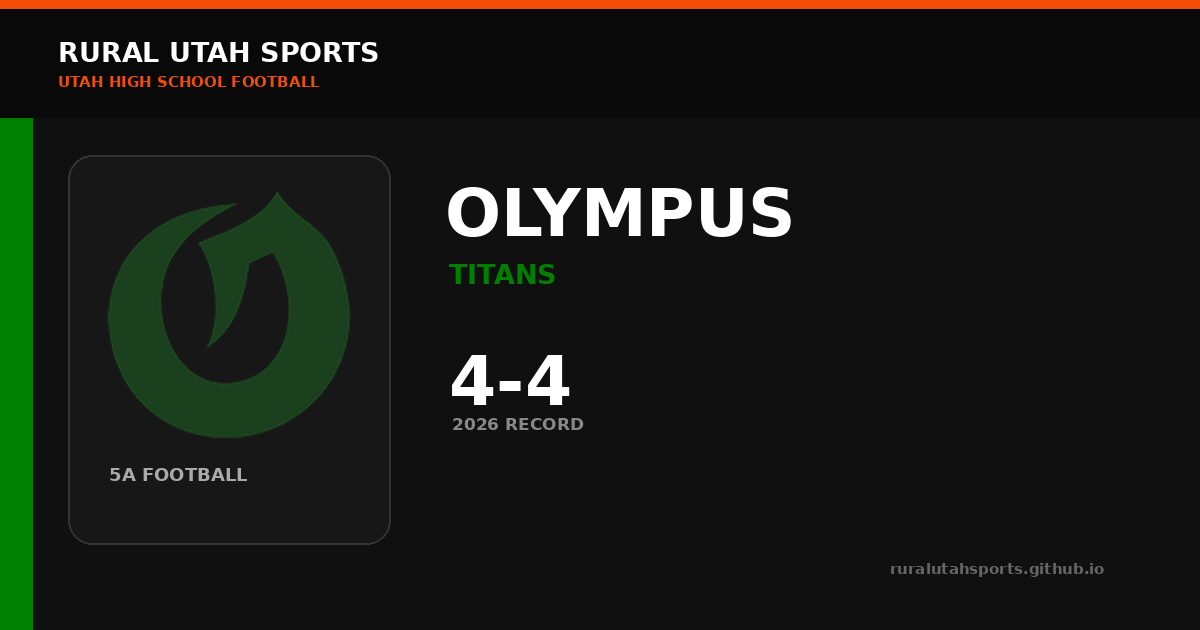
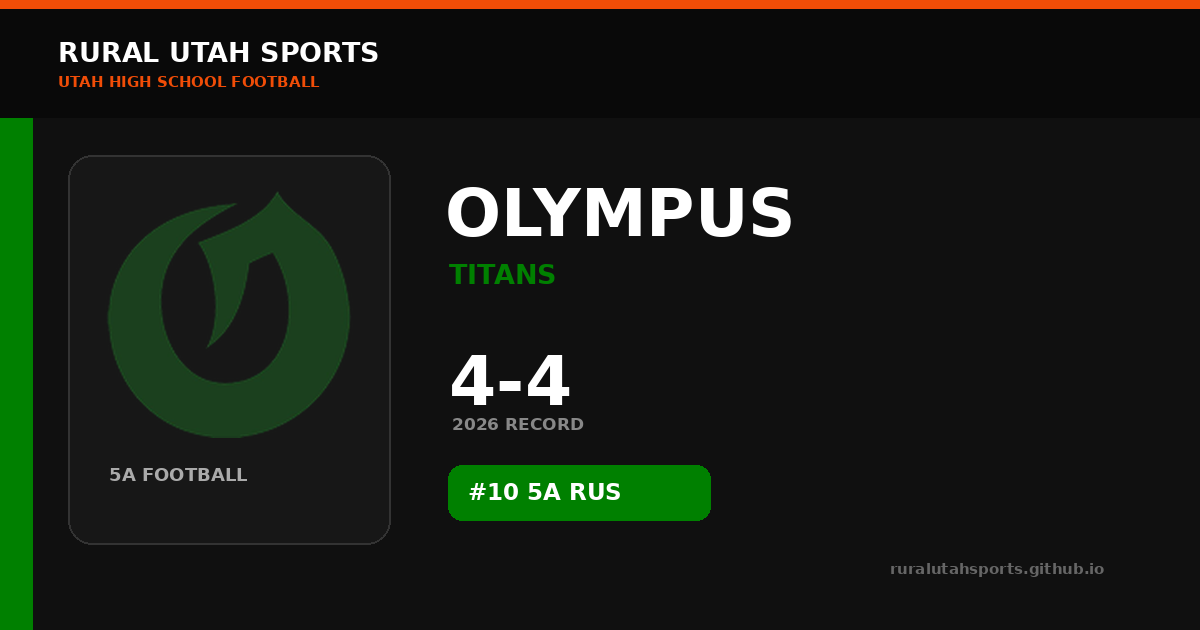
Auto-build social share previews

Changed region(s): [[0.37, 0.7238, 0.6167, 0.8444]]

diff --git a/share/team/pleasant-grove/index.html b/share/team/pleasant-grove/index.html
@@ -1,5 +1,5 @@
 <!doctype html><html lang="en"><head><meta charset="utf-8"><meta name="viewport" content="width=device-width,initial-scale=1">
-<title>Pleasant Grove Vikings Football | Rural Utah Sports</title><meta name="description" content="2026 5A football • 4-4 • #8 5A RUS. Team history, games, rankings, ELO and stats."><meta name="robots" content="noindex,follow"><link rel="canonical" href="https://ruralutahsports.github.io/rural-utah-sports/team.html?team=PLEASANT%20GROVE">
-<meta property="og:type" content="website"><meta property="og:site_name" content="Rural Utah Sports"><meta property="og:title" content="Pleasant Grove Vikings Football | Rural Utah Sports"><meta property="og:description" content="2026 5A football • 4-4 • #8 5A RUS. Team history, games, rankings, ELO and stats."><meta property="og:url" content="https://ruralutahsports.github.io/rural-utah-sports/share/team/pleasant-grove/"><meta property="og:image" content="https://ruralutahsports.github.io/rural-utah-sports/share-images/teams/pleasant-grove.png"><meta property="og:image:width" content="1200"><meta property="og:image:height" content="630">
-<meta name="twitter:card" content="summary_large_image"><meta name="twitter:title" content="Pleasant Grove Vikings Football | Rural Utah Sports"><meta name="twitter:description" content="2026 5A football • 4-4 • #8 5A RUS. Team history, games, rankings, ELO and stats."><meta name="twitter:image" content="https://ruralutahsports.github.io/rural-utah-sports/share-images/teams/pleasant-grove.png"><meta http-equiv="refresh" content="0;url=https://ruralutahsports.github.io/rural-utah-sports/team.html?team=PLEASANT%20GROVE">
+<title>Pleasant Grove Vikings Football | Rural Utah Sports</title><meta name="description" content="2026 5A football • 4-4. Team history, games, rankings, ELO and stats."><meta name="robots" content="noindex,follow"><link rel="canonical" href="https://ruralutahsports.github.io/rural-utah-sports/team.html?team=PLEASANT%20GROVE">
+<meta property="og:type" content="website"><meta property="og:site_name" content="Rural Utah Sports"><meta property="og:title" content="Pleasant Grove Vikings Football | Rural Utah Sports"><meta property="og:description" content="2026 5A football • 4-4. Team history, games, rankings, ELO and stats."><meta property="og:url" content="https://ruralutahsports.github.io/rural-utah-sports/share/team/pleasant-grove/"><meta property="og:image" content="https://ruralutahsports.github.io/rural-utah-sports/share-images/teams/pleasant-grove.png"><meta property="og:image:width" content="1200"><meta property="og:image:height" content="630">
+<meta name="twitter:card" content="summary_large_image"><meta name="twitter:title" content="Pleasant Grove Vikings Football | Rural Utah Sports"><meta name="twitter:description" content="2026 5A football • 4-4. Team history, games, rankings, ELO and stats."><meta name="twitter:image" content="https://ruralutahsports.github.io/rural-utah-sports/share-images/teams/pleasant-grove.png"><meta http-equiv="refresh" content="0;url=https://ruralutahsports.github.io/rural-utah-sports/team.html?team=PLEASANT%20GROVE">
 <style>body{margin:0;background:#111;color:#fff;font:16px Arial,sans-serif;display:grid;place-items:center;min-height:100vh}a{color:#F14D07;font-weight:800}</style></head><body><p>Opening <a href="https://ruralutahsports.github.io/rural-utah-sports/team.html?team=PLEASANT%20GROVE">Pleasant Grove Vikings Football | Rural Utah Sports</a>…</p><script>location.replace("https://ruralutahsports.github.io/rural-utah-sports/team.html?team=PLEASANT%20GROVE");</script></body></html>

diff --git a/share/team/springville/index.html b/share/team/springville/index.html
@@ -1,5 +1,5 @@
 <!doctype html><html lang="en"><head><meta charset="utf-8"><meta name="viewport" content="width=device-width,initial-scale=1">
-<title>Springville Red Devils Football | Rural Utah Sports</title><meta name="description" content="2026 5A football • 6-2 • #5 5A RUS. Team history, games, rankings, ELO and stats."><meta name="robots" content="noindex,follow"><link rel="canonical" href="https://ruralutahsports.github.io/rural-utah-sports/team.html?team=SPRINGVILLE">
-<meta property="og:type" content="website"><meta property="og:site_name" content="Rural Utah Sports"><meta property="og:title" content="Springville Red Devils Football | Rural Utah Sports"><meta property="og:description" content="2026 5A football • 6-2 • #5 5A RUS. Team history, games, rankings, ELO and stats."><meta property="og:url" content="https://ruralutahsports.github.io/rural-utah-sports/share/team/springville/"><meta property="og:image" content="https://ruralutahsports.github.io/rural-utah-sports/share-images/teams/springville.png"><meta property="og:image:width" content="1200"><meta property="og:image:height" content="630">
-<meta name="twitter:card" content="summary_large_image"><meta name="twitter:title" content="Springville Red Devils Football | Rural Utah Sports"><meta name="twitter:description" content="2026 5A football • 6-2 • #5 5A RUS. Team history, games, rankings, ELO and stats."><meta name="twitter:image" content="https://ruralutahsports.github.io/rural-utah-sports/share-images/teams/springville.png"><meta http-equiv="refresh" content="0;url=https://ruralutahsports.github.io/rural-utah-sports/team.html?team=SPRINGVILLE">
+<title>Springville Red Devils Football | Rural Utah Sports</title><meta name="description" content="2026 5A football • 6-2 • #4 5A RUS. Team history, games, rankings, ELO and stats."><meta name="robots" content="noindex,follow"><link rel="canonical" href="https://ruralutahsports.github.io/rural-utah-sports/team.html?team=SPRINGVILLE">
+<meta property="og:type" content="website"><meta property="og:site_name" content="Rural Utah Sports"><meta property="og:title" content="Springville Red Devils Football | Rural Utah Sports"><meta property="og:description" content="2026 5A football • 6-2 • #4 5A RUS. Team history, games, rankings, ELO and stats."><meta property="og:url" content="https://ruralutahsports.github.io/rural-utah-sports/share/team/springville/"><meta property="og:image" content="https://ruralutahsports.github.io/rural-utah-sports/share-images/teams/springville.png"><meta property="og:image:width" content="1200"><meta property="og:image:height" content="630">
+<meta name="twitter:card" content="summary_large_image"><meta name="twitter:title" content="Springville Red Devils Football | Rural Utah Sports"><meta name="twitter:description" content="2026 5A football • 6-2 • #4 5A RUS. Team history, games, rankings, ELO and stats."><meta name="twitter:image" content="https://ruralutahsports.github.io/rural-utah-sports/share-images/teams/springville.png"><meta http-equiv="refresh" content="0;url=https://ruralutahsports.github.io/rural-utah-sports/team.html?team=SPRINGVILLE">
 <style>body{margin:0;background:#111;color:#fff;font:16px Arial,sans-serif;display:grid;place-items:center;min-height:100vh}a{color:#F14D07;font-weight:800}</style></head><body><p>Opening <a href="https://ruralutahsports.github.io/rural-utah-sports/team.html?team=SPRINGVILLE">Springville Red Devils Football | Rural Utah Sports</a>…</p><script>location.replace("https://ruralutahsports.github.io/rural-utah-sports/team.html?team=SPRINGVILLE");</script></body></html>

diff --git a/share/team/spanish-fork/index.html b/share/team/spanish-fork/index.html
@@ -1,5 +1,5 @@
 <!doctype html><html lang="en"><head><meta charset="utf-8"><meta name="viewport" content="width=device-width,initial-scale=1">
-<title>Spanish Fork Dons Football | Rural Utah Sports</title><meta name="description" content="2026 5A football • 6-2 • #9 5A RUS. Team history, games, rankings, ELO and stats."><meta name="robots" content="noindex,follow"><link rel="canonical" href="https://ruralutahsports.github.io/rural-utah-sports/team.html?team=SPANISH%20FORK">
-<meta property="og:type" content="website"><meta property="og:site_name" content="Rural Utah Sports"><meta property="og:title" content="Spanish Fork Dons Football | Rural Utah Sports"><meta property="og:description" content="2026 5A football • 6-2 • #9 5A RUS. Team history, games, rankings, ELO and stats."><meta property="og:url" content="https://ruralutahsports.github.io/rural-utah-sports/share/team/spanish-fork/"><meta property="og:image" content="https://ruralutahsports.github.io/rural-utah-sports/share-images/teams/spanish-fork.png"><meta property="og:image:width" content="1200"><meta property="og:image:height" content="630">
-<meta name="twitter:card" content="summary_large_image"><meta name="twitter:title" content="Spanish Fork Dons Football | Rural Utah Sports"><meta name="twitter:description" content="2026 5A football • 6-2 • #9 5A RUS. Team history, games, rankings, ELO and stats."><meta name="twitter:image" content="https://ruralutahsports.github.io/rural-utah-sports/share-images/teams/spanish-fork.png"><meta http-equiv="refresh" content="0;url=https://ruralutahsports.github.io/rural-utah-sports/team.html?team=SPANISH%20FORK">
+<title>Spanish Fork Dons Football | Rural Utah Sports</title><meta name="description" content="2026 5A football • 6-2 • #7 5A RUS. Team history, games, rankings, ELO and stats."><meta name="robots" content="noindex,follow"><link rel="canonical" href="https://ruralutahsports.github.io/rural-utah-sports/team.html?team=SPANISH%20FORK">
+<meta property="og:type" content="website"><meta property="og:site_name" content="Rural Utah Sports"><meta property="og:title" content="Spanish Fork Dons Football | Rural Utah Sports"><meta property="og:description" content="2026 5A football • 6-2 • #7 5A RUS. Team history, games, rankings, ELO and stats."><meta property="og:url" content="https://ruralutahsports.github.io/rural-utah-sports/share/team/spanish-fork/"><meta property="og:image" content="https://ruralutahsports.github.io/rural-utah-sports/share-images/teams/spanish-fork.png"><meta property="og:image:width" content="1200"><meta property="og:image:height" content="630">
+<meta name="twitter:card" content="summary_large_image"><meta name="twitter:title" content="Spanish Fork Dons Football | Rural Utah Sports"><meta name="twitter:description" content="2026 5A football • 6-2 • #7 5A RUS. Team history, games, rankings, ELO and stats."><meta name="twitter:image" content="https://ruralutahsports.github.io/rural-utah-sports/share-images/teams/spanish-fork.png"><meta http-equiv="refresh" content="0;url=https://ruralutahsports.github.io/rural-utah-sports/team.html?team=SPANISH%20FORK">
 <style>body{margin:0;background:#111;color:#fff;font:16px Arial,sans-serif;display:grid;place-items:center;min-height:100vh}a{color:#F14D07;font-weight:800}</style></head><body><p>Opening <a href="https://ruralutahsports.github.io/rural-utah-sports/team.html?team=SPANISH%20FORK">Spanish Fork Dons Football | Rural Utah Sports</a>…</p><script>location.replace("https://ruralutahsports.github.io/rural-utah-sports/team.html?team=SPANISH%20FORK");</script></body></html>

diff --git a/share/team/timpview/index.html b/share/team/timpview/index.html
@@ -1,5 +1,5 @@
 <!doctype html><html lang="en"><head><meta charset="utf-8"><meta name="viewport" content="width=device-width,initial-scale=1">
-<title>Timpview Thunderbirds Football | Rural Utah Sports</title><meta name="description" content="2026 5A football • 3-5 • #4 5A RUS. Team history, games, rankings, ELO and stats."><meta name="robots" content="noindex,follow"><link rel="canonical" href="https://ruralutahsports.github.io/rural-utah-sports/team.html?team=TIMPVIEW">
-<meta property="og:type" content="website"><meta property="og:site_name" content="Rural Utah Sports"><meta property="og:title" content="Timpview Thunderbirds Football | Rural Utah Sports"><meta property="og:description" content="2026 5A football • 3-5 • #4 5A RUS. Team history, games, rankings, ELO and stats."><meta property="og:url" content="https://ruralutahsports.github.io/rural-utah-sports/share/team/timpview/"><meta property="og:image" content="https://ruralutahsports.github.io/rural-utah-sports/share-images/teams/timpview.png"><meta property="og:image:width" content="1200"><meta property="og:image:height" content="630">
-<meta name="twitter:card" content="summary_large_image"><meta name="twitter:title" content="Timpview Thunderbirds Football | Rural Utah Sports"><meta name="twitter:description" content="2026 5A football • 3-5 • #4 5A RUS. Team history, games, rankings, ELO and stats."><meta name="twitter:image" content="https://ruralutahsports.github.io/rural-utah-sports/share-images/teams/timpview.png"><meta http-equiv="refresh" content="0;url=https://ruralutahsports.github.io/rural-utah-sports/team.html?team=TIMPVIEW">
+<title>Timpview Thunderbirds Football | Rural Utah Sports</title><meta name="description" content="2026 5A football • 3-5 • #5 5A RUS. Team history, games, rankings, ELO and stats."><meta name="robots" content="noindex,follow"><link rel="canonical" href="https://ruralutahsports.github.io/rural-utah-sports/team.html?team=TIMPVIEW">
+<meta property="og:type" content="website"><meta property="og:site_name" content="Rural Utah Sports"><meta property="og:title" content="Timpview Thunderbirds Football | Rural Utah Sports"><meta property="og:description" content="2026 5A football • 3-5 • #5 5A RUS. Team history, games, rankings, ELO and stats."><meta property="og:url" content="https://ruralutahsports.github.io/rural-utah-sports/share/team/timpview/"><meta property="og:image" content="https://ruralutahsports.github.io/rural-utah-sports/share-images/teams/timpview.png"><meta property="og:image:width" content="1200"><meta property="og:image:height" content="630">
+<meta name="twitter:card" content="summary_large_image"><meta name="twitter:title" content="Timpview Thunderbirds Football | Rural Utah Sports"><meta name="twitter:description" content="2026 5A football • 3-5 • #5 5A RUS. Team history, games, rankings, ELO and stats."><meta name="twitter:image" content="https://ruralutahsports.github.io/rural-utah-sports/share-images/teams/timpview.png"><meta http-equiv="refresh" content="0;url=https://ruralutahsports.github.io/rural-utah-sports/team.html?team=TIMPVIEW">
 <style>body{margin:0;background:#111;color:#fff;font:16px Arial,sans-serif;display:grid;place-items:center;min-height:100vh}a{color:#F14D07;font-weight:800}</style></head><body><p>Opening <a href="https://ruralutahsports.github.io/rural-utah-sports/team.html?team=TIMPVIEW">Timpview Thunderbirds Football | Rural Utah Sports</a>…</p><script>location.replace("https://ruralutahsports.github.io/rural-utah-sports/team.html?team=TIMPVIEW");</script></body></html>

diff --git a/share/team/bountiful/index.html b/share/team/bountiful/index.html
@@ -1,5 +1,5 @@
 <!doctype html><html lang="en"><head><meta charset="utf-8"><meta name="viewport" content="width=device-width,initial-scale=1">
-<title>Bountiful Redhawks Football | Rural Utah Sports</title><meta name="description" content="2026 5A football • 5-2 • #10 5A RUS. Team history, games, rankings, ELO and stats."><meta name="robots" content="noindex,follow"><link rel="canonical" href="https://ruralutahsports.github.io/rural-utah-sports/team.html?team=BOUNTIFUL">
-<meta property="og:type" content="website"><meta property="og:site_name" content="Rural Utah Sports"><meta property="og:title" content="Bountiful Redhawks Football | Rural Utah Sports"><meta property="og:description" content="2026 5A football • 5-2 • #10 5A RUS. Team history, games, rankings, ELO and stats."><meta property="og:url" content="https://ruralutahsports.github.io/rural-utah-sports/share/team/bountiful/"><meta property="og:image" content="https://ruralutahsports.github.io/rural-utah-sports/share-images/teams/bountiful.png"><meta property="og:image:width" content="1200"><meta property="og:image:height" content="630">
-<meta name="twitter:card" content="summary_large_image"><meta name="twitter:title" content="Bountiful Redhawks Football | Rural Utah Sports"><meta name="twitter:description" content="2026 5A football • 5-2 • #10 5A RUS. Team history, games, rankings, ELO and stats."><meta name="twitter:image" content="https://ruralutahsports.github.io/rural-utah-sports/share-images/teams/bountiful.png"><meta http-equiv="refresh" content="0;url=https://ruralutahsports.github.io/rural-utah-sports/team.html?team=BOUNTIFUL">
+<title>Bountiful Redhawks Football | Rural Utah Sports</title><meta name="description" content="2026 5A football • 5-2 • #6 5A RUS. Team history, games, rankings, ELO and stats."><meta name="robots" content="noindex,follow"><link rel="canonical" href="https://ruralutahsports.github.io/rural-utah-sports/team.html?team=BOUNTIFUL">
+<meta property="og:type" content="website"><meta property="og:site_name" content="Rural Utah Sports"><meta property="og:title" content="Bountiful Redhawks Football | Rural Utah Sports"><meta property="og:description" content="2026 5A football • 5-2 • #6 5A RUS. Team history, games, rankings, ELO and stats."><meta property="og:url" content="https://ruralutahsports.github.io/rural-utah-sports/share/team/bountiful/"><meta property="og:image" content="https://ruralutahsports.github.io/rural-utah-sports/share-images/teams/bountiful.png"><meta property="og:image:width" content="1200"><meta property="og:image:height" content="630">
+<meta name="twitter:card" content="summary_large_image"><meta name="twitter:title" content="Bountiful Redhawks Football | Rural Utah Sports"><meta name="twitter:description" content="2026 5A football • 5-2 • #6 5A RUS. Team history, games, rankings, ELO and stats."><meta name="twitter:image" content="https://ruralutahsports.github.io/rural-utah-sports/share-images/teams/bountiful.png"><meta http-equiv="refresh" content="0;url=https://ruralutahsports.github.io/rural-utah-sports/team.html?team=BOUNTIFUL">
 <style>body{margin:0;background:#111;color:#fff;font:16px Arial,sans-serif;display:grid;place-items:center;min-height:100vh}a{color:#F14D07;font-weight:800}</style></head><body><p>Opening <a href="https://ruralutahsports.github.io/rural-utah-sports/team.html?team=BOUNTIFUL">Bountiful Redhawks Football | Rural Utah Sports</a>…</p><script>location.replace("https://ruralutahsports.github.io/rural-utah-sports/team.html?team=BOUNTIFUL");</script></body></html>

diff --git a/share/team/fremont/index.html b/share/team/fremont/index.html
@@ -1,5 +1,5 @@
 <!doctype html><html lang="en"><head><meta charset="utf-8"><meta name="viewport" content="width=device-width,initial-scale=1">
-<title>Fremont Silverwolves Football | Rural Utah Sports</title><meta name="description" content="2026 5A football • 5-3 • #6 5A RUS. Team history, games, rankings, ELO and stats."><meta name="robots" content="noindex,follow"><link rel="canonical" href="https://ruralutahsports.github.io/rural-utah-sports/team.html?team=FREMONT">
-<meta property="og:type" content="website"><meta property="og:site_name" content="Rural Utah Sports"><meta property="og:title" content="Fremont Silverwolves Football | Rural Utah Sports"><meta property="og:description" content="2026 5A football • 5-3 • #6 5A RUS. Team history, games, rankings, ELO and stats."><meta property="og:url" content="https://ruralutahsports.github.io/rural-utah-sports/share/team/fremont/"><meta property="og:image" content="https://ruralutahsports.github.io/rural-utah-sports/share-images/teams/fremont.png"><meta property="og:image:width" content="1200"><meta property="og:image:height" content="630">
-<meta name="twitter:card" content="summary_large_image"><meta name="twitter:title" content="Fremont Silverwolves Football | Rural Utah Sports"><meta name="twitter:description" content="2026 5A football • 5-3 • #6 5A RUS. Team history, games, rankings, ELO and stats."><meta name="twitter:image" content="https://ruralutahsports.github.io/rural-utah-sports/share-images/teams/fremont.png"><meta http-equiv="refresh" content="0;url=https://ruralutahsports.github.io/rural-utah-sports/team.html?team=FREMONT">
+<title>Fremont Silverwolves Football | Rural Utah Sports</title><meta name="description" content="2026 5A football • 5-3 • #8 5A RUS. Team history, games, rankings, ELO and stats."><meta name="robots" content="noindex,follow"><link rel="canonical" href="https://ruralutahsports.github.io/rural-utah-sports/team.html?team=FREMONT">
+<meta property="og:type" content="website"><meta property="og:site_name" content="Rural Utah Sports"><meta property="og:title" content="Fremont Silverwolves Football | Rural Utah Sports"><meta property="og:description" content="2026 5A football • 5-3 • #8 5A RUS. Team history, games, rankings, ELO and stats."><meta property="og:url" content="https://ruralutahsports.github.io/rural-utah-sports/share/team/fremont/"><meta property="og:image" content="https://ruralutahsports.github.io/rural-utah-sports/share-images/teams/fremont.png"><meta property="og:image:width" content="1200"><meta property="og:image:height" content="630">
+<meta name="twitter:card" content="summary_large_image"><meta name="twitter:title" content="Fremont Silverwolves Football | Rural Utah Sports"><meta name="twitter:description" content="2026 5A football • 5-3 • #8 5A RUS. Team history, games, rankings, ELO and stats."><meta name="twitter:image" content="https://ruralutahsports.github.io/rural-utah-sports/share-images/teams/fremont.png"><meta http-equiv="refresh" content="0;url=https://ruralutahsports.github.io/rural-utah-sports/team.html?team=FREMONT">
 <style>body{margin:0;background:#111;color:#fff;font:16px Arial,sans-serif;display:grid;place-items:center;min-height:100vh}a{color:#F14D07;font-weight:800}</style></head><body><p>Opening <a href="https://ruralutahsports.github.io/rural-utah-sports/team.html?team=FREMONT">Fremont Silverwolves Football | Rural Utah Sports</a>…</p><script>location.replace("https://ruralutahsports.github.io/rural-utah-sports/team.html?team=FREMONT");</script></body></html>

diff --git a/share/team/olympus/index.html b/share/team/olympus/index.html
@@ -1,5 +1,5 @@
 <!doctype html><html lang="en"><head><meta charset="utf-8"><meta name="viewport" content="width=device-width,initial-scale=1">
-<title>Olympus Titans Football | Rural Utah Sports</title><meta name="description" content="2026 5A football • 4-4. Team history, games, rankings, ELO and stats."><meta name="robots" content="noindex,follow"><link rel="canonical" href="https://ruralutahsports.github.io/rural-utah-sports/team.html?team=OLYMPUS">
-<meta property="og:type" content="website"><meta property="og:site_name" content="Rural Utah Sports"><meta property="og:title" content="Olympus Titans Football | Rural Utah Sports"><meta property="og:description" content="2026 5A football • 4-4. Team history, games, rankings, ELO and stats."><meta property="og:url" content="https://ruralutahsports.github.io/rural-utah-sports/share/team/olympus/"><meta property="og:image" content="https://ruralutahsports.github.io/rural-utah-sports/share-images/teams/olympus.png"><meta property="og:image:width" content="1200"><meta property="og:image:height" content="630">
-<meta name="twitter:card" content="summary_large_image"><meta name="twitter:title" content="Olympus Titans Football | Rural Utah Sports"><meta name="twitter:description" content="2026 5A football • 4-4. Team history, games, rankings, ELO and stats."><meta name="twitter:image" content="https://ruralutahsports.github.io/rural-utah-sports/share-images/teams/olympus.png"><meta http-equiv="refresh" content="0;url=https://ruralutahsports.github.io/rural-utah-sports/team.html?team=OLYMPUS">
+<title>Olympus Titans Football | Rural Utah Sports</title><meta name="description" content="2026 5A football • 4-4 • #10 5A RUS. Team history, games, rankings, ELO and stats."><meta name="robots" content="noindex,follow"><link rel="canonical" href="https://ruralutahsports.github.io/rural-utah-sports/team.html?team=OLYMPUS">
+<meta property="og:type" content="website"><meta property="og:site_name" content="Rural Utah Sports"><meta property="og:title" content="Olympus Titans Football | Rural Utah Sports"><meta property="og:description" content="2026 5A football • 4-4 • #10 5A RUS. Team history, games, rankings, ELO and stats."><meta property="og:url" content="https://ruralutahsports.github.io/rural-utah-sports/share/team/olympus/"><meta property="og:image" content="https://ruralutahsports.github.io/rural-utah-sports/share-images/teams/olympus.png"><meta property="og:image:width" content="1200"><meta property="og:image:height" content="630">
+<meta name="twitter:card" content="summary_large_image"><meta name="twitter:title" content="Olympus Titans Football | Rural Utah Sports"><meta name="twitter:description" content="2026 5A football • 4-4 • #10 5A RUS. Team history, games, rankings, ELO and stats."><meta name="twitter:image" content="https://ruralutahsports.github.io/rural-utah-sports/share-images/teams/olympus.png"><meta http-equiv="refresh" content="0;url=https://ruralutahsports.github.io/rural-utah-sports/team.html?team=OLYMPUS">
 <style>body{margin:0;background:#111;color:#fff;font:16px Arial,sans-serif;display:grid;place-items:center;min-height:100vh}a{color:#F14D07;font-weight:800}</style></head><body><p>Opening <a href="https://ruralutahsports.github.io/rural-utah-sports/team.html?team=OLYMPUS">Olympus Titans Football | Rural Utah Sports</a>…</p><script>location.replace("https://ruralutahsports.github.io/rural-utah-sports/team.html?team=OLYMPUS");</script></body></html>

diff --git a/share/team/alta/index.html b/share/team/alta/index.html
@@ -1,5 +1,5 @@
 <!doctype html><html lang="en"><head><meta charset="utf-8"><meta name="viewport" content="width=device-width,initial-scale=1">
-<title>Alta Hawks Football | Rural Utah Sports</title><meta name="description" content="2026 5A football • 5-3 • #7 5A RUS. Team history, games, rankings, ELO and stats."><meta name="robots" content="noindex,follow"><link rel="canonical" href="https://ruralutahsports.github.io/rural-utah-sports/team.html?team=ALTA">
-<meta property="og:type" content="website"><meta property="og:site_name" content="Rural Utah Sports"><meta property="og:title" content="Alta Hawks Football | Rural Utah Sports"><meta property="og:description" content="2026 5A football • 5-3 • #7 5A RUS. Team history, games, rankings, ELO and stats."><meta property="og:url" content="https://ruralutahsports.github.io/rural-utah-sports/share/team/alta/"><meta property="og:image" content="https://ruralutahsports.github.io/rural-utah-sports/share-images/teams/alta.png"><meta property="og:image:width" content="1200"><meta property="og:image:height" content="630">
-<meta name="twitter:card" content="summary_large_image"><meta name="twitter:title" content="Alta Hawks Football | Rural Utah Sports"><meta name="twitter:description" content="2026 5A football • 5-3 • #7 5A RUS. Team history, games, rankings, ELO and stats."><meta name="twitter:image" content="https://ruralutahsports.github.io/rural-utah-sports/share-images/teams/alta.png"><meta http-equiv="refresh" content="0;url=https://ruralutahsports.github.io/rural-utah-sports/team.html?team=ALTA">
+<title>Alta Hawks Football | Rural Utah Sports</title><meta name="description" content="2026 5A football • 5-3 • #9 5A RUS. Team history, games, rankings, ELO and stats."><meta name="robots" content="noindex,follow"><link rel="canonical" href="https://ruralutahsports.github.io/rural-utah-sports/team.html?team=ALTA">
+<meta property="og:type" content="website"><meta property="og:site_name" content="Rural Utah Sports"><meta property="og:title" content="Alta Hawks Football | Rural Utah Sports"><meta property="og:description" content="2026 5A football • 5-3 • #9 5A RUS. Team history, games, rankings, ELO and stats."><meta property="og:url" content="https://ruralutahsports.github.io/rural-utah-sports/share/team/alta/"><meta property="og:image" content="https://ruralutahsports.github.io/rural-utah-sports/share-images/teams/alta.png"><meta property="og:image:width" content="1200"><meta property="og:image:height" content="630">
+<meta name="twitter:card" content="summary_large_image"><meta name="twitter:title" content="Alta Hawks Football | Rural Utah Sports"><meta name="twitter:description" content="2026 5A football • 5-3 • #9 5A RUS. Team history, games, rankings, ELO and stats."><meta name="twitter:image" content="https://ruralutahsports.github.io/rural-utah-sports/share-images/teams/alta.png"><meta http-equiv="refresh" content="0;url=https://ruralutahsports.github.io/rural-utah-sports/team.html?team=ALTA">
 <style>body{margin:0;background:#111;color:#fff;font:16px Arial,sans-serif;display:grid;place-items:center;min-height:100vh}a{color:#F14D07;font-weight:800}</style></head><body><p>Opening <a href="https://ruralutahsports.github.io/rural-utah-sports/team.html?team=ALTA">Alta Hawks Football | Rural Utah Sports</a>…</p><script>location.replace("https://ruralutahsports.github.io/rural-utah-sports/team.html?team=ALTA");</script></body></html>
